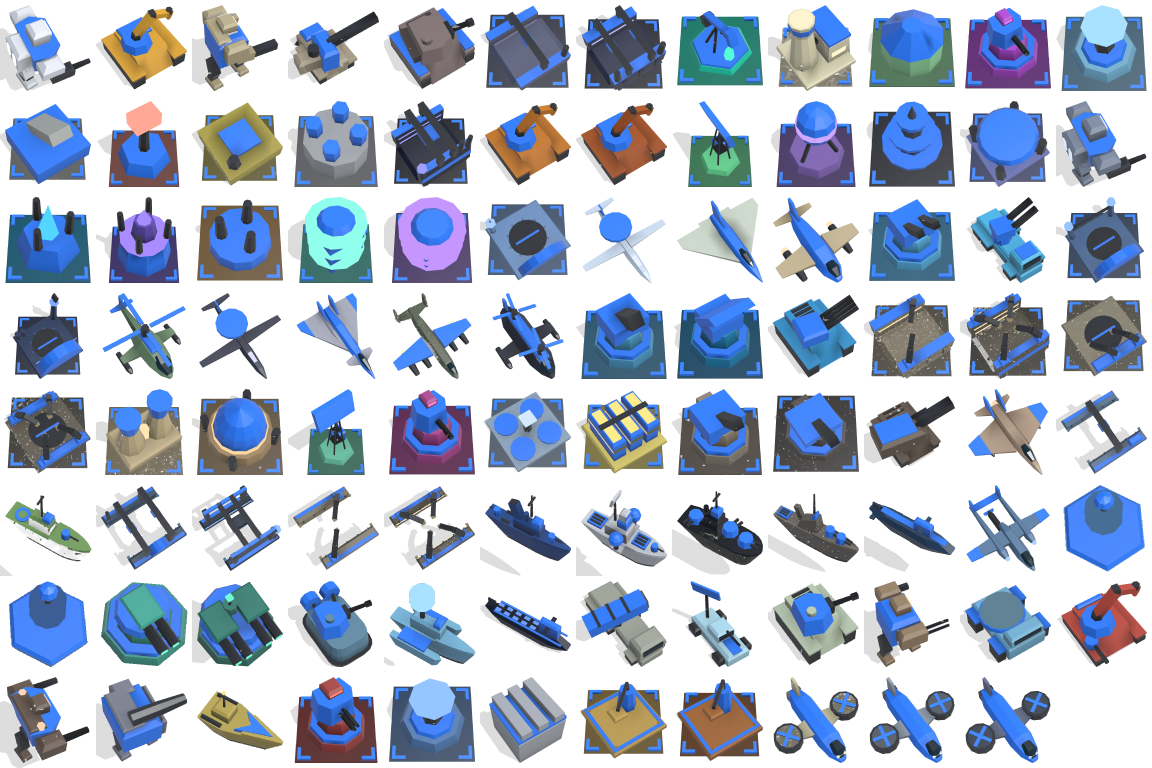
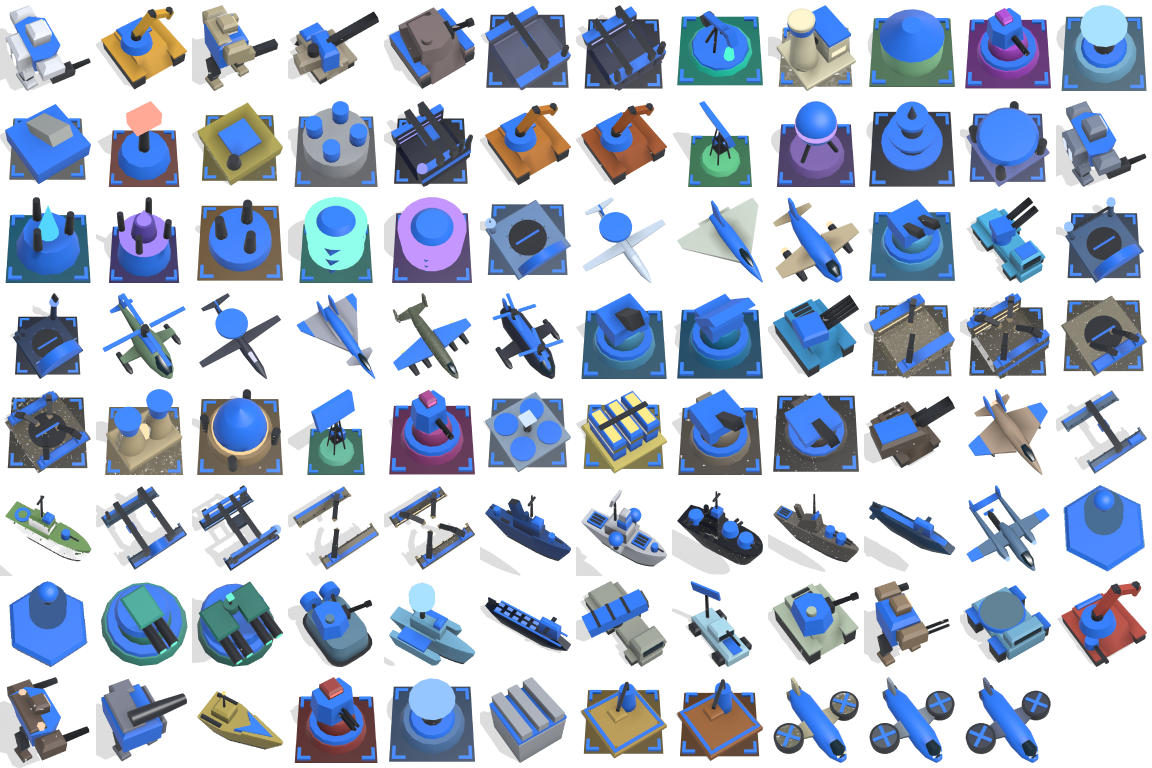
Shade round parts smooth and give the larger ones more sides
Every face was shaded flat, so turrets, stacks, domes, and hulls looked cut
from facets. Faces meeting at under 40 degrees now share their normals, so
round parts shade smoothly while box corners, bevels, and cap rims stay crisp.
Round parts of six sides or more and at least 6% of their box across get twice
the sides, up to 24, so their outlines look round too; boulders keep their five.

Smoothing is free at runtime. The extra sides add about a fifth to the
triangles drawn, and the per-shape budget goes from 1,200 to 1,600 so the
cruiser fits.

diff --git a/src/render/meshes.rs b/src/render/meshes.rs
@@ -522,6 +522,7 @@ impl MeshBuilder {
 
     /// A low-poly ball, from pole to pole in `rings` bands of `sides` faces.
     fn ball(&mut self, center: [f32; 3], radius: f32, sides: usize, rings: usize) {
+        let (sides, rings) = (round_sides(sides, radius), round_sides(rings * 2, radius) / 2);
         let middle = Vec3::from(center);
         let at = |ring: usize, side: usize| {
             let up = -std::f32::consts::FRAC_PI_2 + ring as f32 / rings as f32 * std::f32::consts::PI;
@@ -709,6 +710,7 @@ impl MeshBuilder {
     /// A rounded body along Y, such as a fuselage or an engine, through cross-sections of
     /// `sides` sides, each `[y, half width, half height, height of its middle]`, centered on `x`.
     fn body(&mut self, x: f32, stations: &[[f32; 4]], sides: usize) {
+        let sides = round_sides(sides, stations.iter().map(|station| station[1].max(station[2])).fold(0.0, f32::max));
         let ring = |station: [f32; 4]| {
             (0..sides)
                 .map(|index| {
@@ -1002,6 +1004,7 @@ impl MeshBuilder {
 
     /// A round-ish solid from one radius to another. A top radius of zero makes a cone.
     fn frustum(&mut self, center: [f32; 2], z: [f32; 2], radius: [f32; 2], sides: usize) {
+        let sides = round_sides(sides, radius[0].max(radius[1]));
         // The small offset keeps vertices off the axes, which dots rely on when zoomed out.
         let point = |index: usize, radius: f32, z: f32| {
             let angle = 0.3 + index as f32 / sides as f32 * std::f32::consts::TAU;
@@ -2826,6 +2829,52 @@ const fn occlusion_ground(shape: Shape) -> Option<bool> {
     }
 }
 
+/// Faces meeting at less than this angle, in degrees, are shaded as one smooth surface, so that
+/// round parts look round; sharper edges stay crisp: a box's corners, a bevel's 45 degrees, and
+/// the rim of a cylinder's cap. Until 2026-11-23 every face was shaded flat, which made every
+/// unit look cut from facets.
+const SMOOTH_CREASE_DEGREES: f32 = 40.0;
+/// Round parts asked for at least `ROUND_SIDES_LEAST` sides, and as wide as `ROUND_SIDES_RADIUS`
+/// or wider, in shares of the shape's box, are drawn with twice as many, up to
+/// `ROUND_SIDES_MOST`, so that their outlines look round too. Narrower parts, such as barrels and
+/// bollards, are too small for their outline to show, and smooth shading is enough. Parts of
+/// fewer sides, such as boulders, are faceted on purpose and keep theirs.
+const ROUND_SIDES_LEAST: usize = 6;
+const ROUND_SIDES_RADIUS: f32 = 0.06;
+const ROUND_SIDES_MOST: usize = 24;
+
+/// How many sides a round part of `radius` asked for with `sides` is drawn with
+/// (`ROUND_SIDES_LEAST`).
+fn round_sides(sides: usize, radius: f32) -> usize {
+    if sides < ROUND_SIDES_LEAST || radius < ROUND_SIDES_RADIUS {
+        return sides;
+    }
+    let doubled = if sides * 2 < ROUND_SIDES_MOST { sides * 2 } else { ROUND_SIDES_MOST };
+    if doubled > sides { doubled } else { sides }
+}
+
+/// Shades faces that meet at a shallow angle as one smooth surface (`SMOOTH_CREASE_DEGREES`):
+/// each vertex from `first` on takes the mean of the normals of the faces at its point that lie
+/// within the crease of its own face, among parts that move alike.
+fn smooth_normals(vertices: &mut [MeshVertex], first: usize) {
+    let crease = SMOOTH_CREASE_DEGREES.to_radians().cos();
+    let quantize = |value: f32| (value * 8192.0).round() as i32;
+    let motion_bits = |material: u32| material & !(motion::MATERIAL_MASK | (0xff << motion::OPENNESS_SHIFT));
+    let key = |vertex: &MeshVertex| (vertex.position.map(quantize), vertex.pivot.map(quantize), motion_bits(vertex.material));
+    let mut groups: std::collections::BTreeMap<_, Vec<usize>> = std::collections::BTreeMap::new();
+    for (index, vertex) in vertices.iter().enumerate().skip(first) {
+        groups.entry(key(vertex)).or_default().push(index);
+    }
+    let faces: Vec<Vec3> = vertices.iter().map(|vertex| Vec3::from(vertex.normal)).collect();
+    for members in groups.values().filter(|members| members.len() > 1) {
+        for &index in members {
+            let own = faces[index];
+            let sum: Vec3 = members.iter().map(|&other| faces[other]).filter(|normal| normal.dot(own) >= crease).sum();
+            vertices[index].normal = sum.try_normalize().unwrap_or(own).to_array();
+        }
+    }
+}
+
 /// The longest a side of a four-sided face may be, in shares of the shape's box, before the
 /// face is cut into a grid for its shading.
 const SUBDIVIDE_EDGE: f32 = 0.25;
@@ -2939,6 +2988,7 @@ impl MeshSet {
             let first_vertex = mesh.vertices.len();
             mesh.subdivide = occlusion_ground(shape).is_some();
             build_shape(shape, &mut mesh);
+            smooth_normals(&mut mesh.vertices, first_vertex);
             let end = mesh.indices.len() as u32;
             if let Some(grounded) = occlusion_ground(shape) {
                 bake_openness(&mut mesh.vertices, first_vertex, &mesh.indices[start as usize..end as usize], grounded);
@@ -3075,8 +3125,9 @@ pub(super) mod tests {
         seen
     }
 
-    /// The most triangles one shape may have, so that a crowd of units stays cheap to draw.
-    const TRIANGLE_BUDGET: u32 = 1_200;
+    /// The most triangles one shape may have, so that a crowd of units stays cheap to draw. Raised
+    /// from 1,200 on 2026-11-23, when round parts were given more sides.
+    const TRIANGLE_BUDGET: u32 = 1_600;
 
     #[test]
     fn every_shape_keeps_to_its_triangle_budget() {
